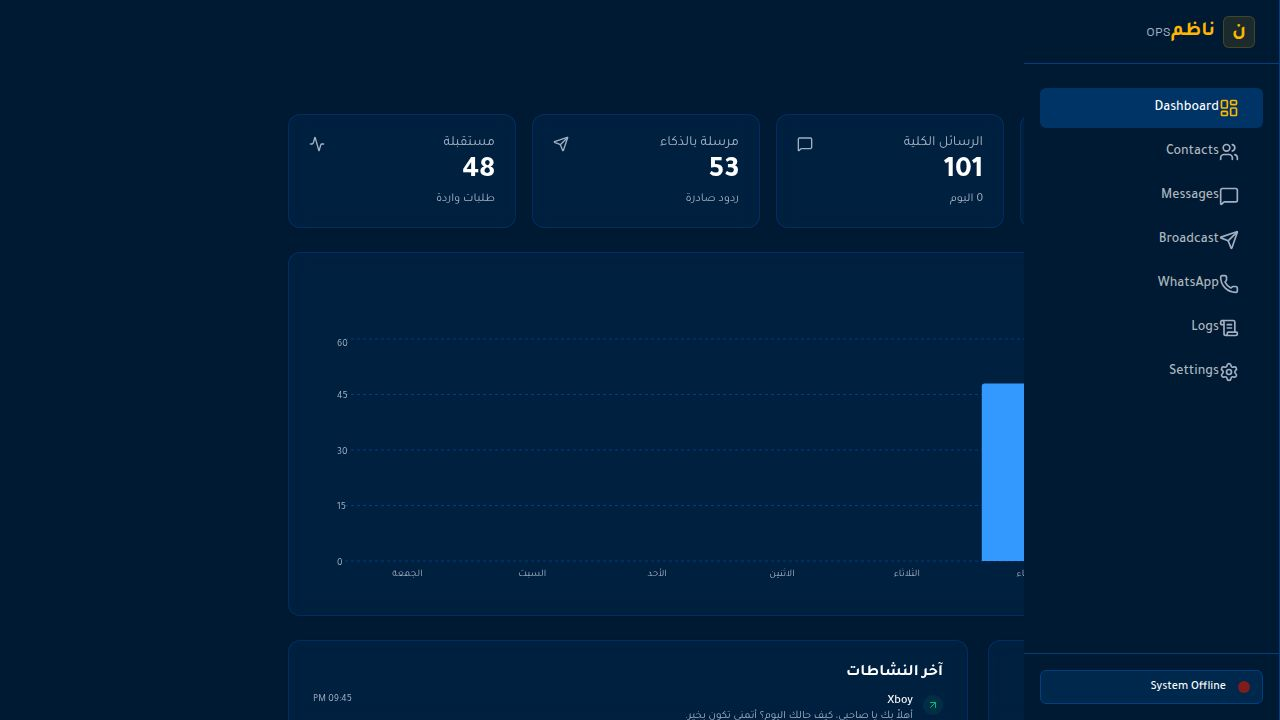
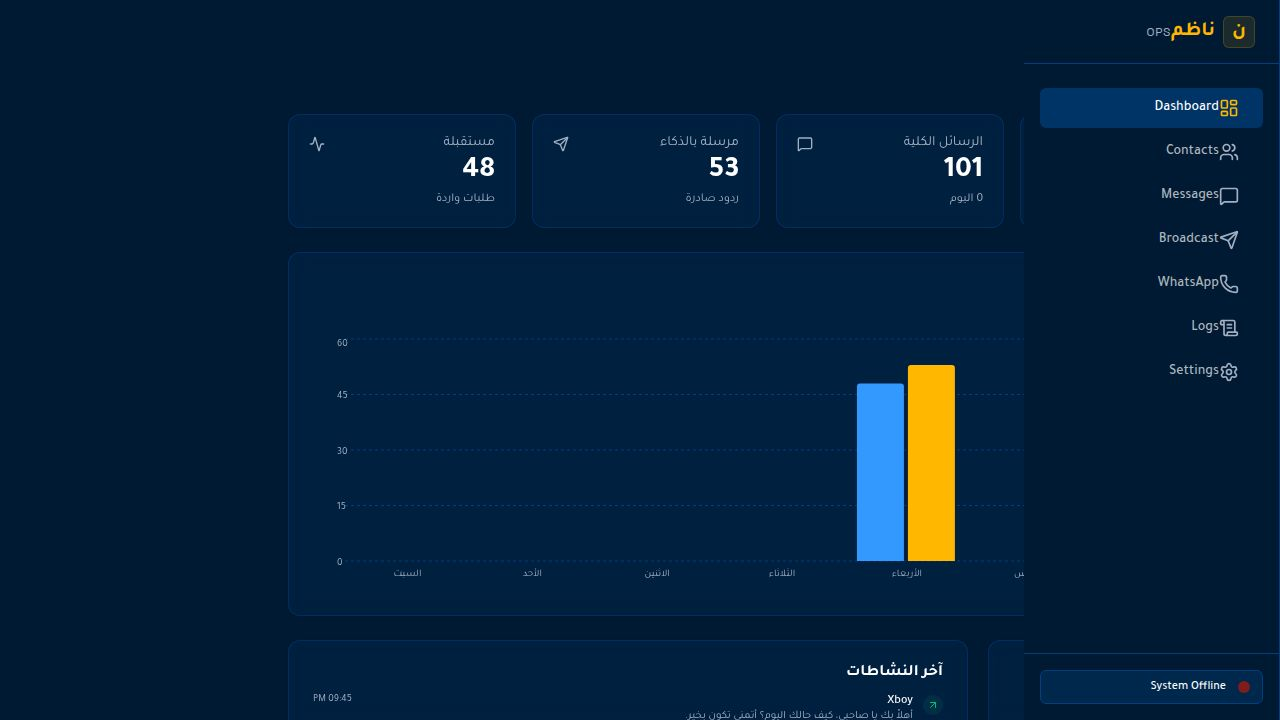
Add fallback Gemini models and display key usage statistics
Integrates new Gemini 1.5 Pro and 1.5 Flash models as fallbacks, and adds a dashboard section to monitor API key usage, including request counts, errors, and cooling statuses.

Replit-Commit-Author: Agent
Replit-Commit-Session-Id: 8fa921c9-8ec3-4ce2-b086-723d5ff7705b
Replit-Commit-Checkpoint-Type: full_checkpoint
Replit-Commit-Event-Id: fe52ef9c-4b02-409e-a6cb-9ee965234e4c
Replit-Commit-Screenshot-Url: https://storage.googleapis.com/screenshot-production-us-central1/ffe41170-9d31-4f9a-b78f-f85605ac5097/8fa921c9-8ec3-4ce2-b086-723d5ff7705b/ZPMA9gA
Replit-Helium-Checkpoint-Created: true

Changed region(s): [[0.6562, 0.4889, 0.8125, 0.825]]

diff --git a/artifacts/nour-dashboard/src/pages/settings.tsx b/artifacts/nour-dashboard/src/pages/settings.tsx
@@ -392,6 +392,15 @@ export default function Settings() {
   const geminiModel  = form.watch("geminiModel") ?? "";
   const groqModel    = form.watch("groqModel") ?? "";
 
+  // ── Key stats (live refresh every 30s) ───────────────────────────────────
+  const [keyStats, setKeyStats] = useState<Record<string, { requests: number; quotaErrors: number; lastSuccess: number | null; lastError: number | null; coolingModels: string[] }>>({});
+  useEffect(() => {
+    const fetchKeyStats = () => fetch("/api/stats/keys").then(r => r.json()).then(setKeyStats).catch(() => {});
+    fetchKeyStats();
+    const id = setInterval(fetchKeyStats, 30_000);
+    return () => clearInterval(id);
+  }, []);
+
   if (isLoading) {
     return <div className="flex justify-center p-12"><Loader2 className="h-8 w-8 animate-spin text-primary" /></div>;
   }
@@ -620,6 +629,41 @@ export default function Settings() {
                   <ModelSelector provider="gemini" apiKey={geminiApiKey} value={geminiModel} onChange={(v) => form.setValue("geminiModel", v, { shouldDirty: true })} />
                   {geminiModel && <p className="text-xs text-muted-foreground mt-1">Selected: <span className="font-mono text-foreground">{geminiModel}</span></p>}
                 </div>
+
+                {/* Key Stats */}
+                {Object.keys(keyStats).length > 0 && (
+                  <div className="space-y-2 pt-1">
+                    <p className="text-xs font-medium text-muted-foreground">حالة المفاتيح (تتحدث كل 30 ث)</p>
+                    <div className="grid grid-cols-2 gap-2">
+                      {(["gemini_1","gemini_2","gemini_3","gemini_4","gemini_5","gemini_6"] as const).map((label, i) => {
+                        const s = keyStats[label];
+                        if (!s) return null;
+                        const isCooling = s.coolingModels.length > 0;
+                        const status = isCooling ? "تبريد" : s.requests > 0 ? "يعمل" : "جاهز";
+                        const color = isCooling ? "text-orange-400" : s.requests > 0 ? "text-green-400" : "text-muted-foreground";
+                        const dot = isCooling ? "bg-orange-400 animate-pulse" : s.requests > 0 ? "bg-green-400" : "bg-zinc-500";
+                        return (
+                          <div key={label} className="rounded-md border border-border/40 bg-muted/30 p-2 space-y-1">
+                            <div className="flex items-center justify-between">
+                              <span className="text-xs font-mono text-foreground">مفتاح {i + 1}</span>
+                              <div className="flex items-center gap-1">
+                                <span className={`h-1.5 w-1.5 rounded-full ${dot}`} />
+                                <span className={`text-xs ${color}`}>{status}</span>
+                              </div>
+                            </div>
+                            <div className="flex justify-between text-xs text-muted-foreground">
+                              <span>✅ {s.requests} طلب</span>
+                              <span>⚠️ {s.quotaErrors} خطأ</span>
+                            </div>
+                            {isCooling && (
+                              <p className="text-xs text-orange-400/80 truncate">⏳ {s.coolingModels.join(", ")}</p>
+                            )}
+                          </div>
+                        );
+                      })}
+                    </div>
+                  </div>
+                )}
               </div>
 
               {/* Groq */}

diff --git a/artifacts/api-server/src/services/ai.ts b/artifacts/api-server/src/services/ai.ts
@@ -32,6 +32,34 @@ async function getSetting(key: string): Promise<string | null> {
 const failedModels = new Map<string, number>();
 const CIRCUIT_BREAKER_MS = 3 * 60 * 1000;
 
+// ── Key stats — track requests/errors per provider label ────────────────────
+interface KeyStat {
+  requests: number;
+  quotaErrors: number;
+  lastSuccess: number | null;
+  lastError: number | null;
+}
+const keyStats = new Map<string, KeyStat>();
+
+function getOrCreateKeyStat(label: string): KeyStat {
+  if (!keyStats.has(label)) keyStats.set(label, { requests: 0, quotaErrors: 0, lastSuccess: null, lastError: null });
+  return keyStats.get(label)!;
+}
+
+export function getKeyStats(): Record<string, KeyStat & { coolingModels: string[] }> {
+  const result: Record<string, KeyStat & { coolingModels: string[] }> = {};
+  for (const [label, stat] of keyStats.entries()) {
+    const coolingModels: string[] = [];
+    for (const [key, failedAt] of failedModels.entries()) {
+      if (key.startsWith(`${label}/`) && Date.now() - failedAt < CIRCUIT_BREAKER_MS) {
+        coolingModels.push(key.slice(label.length + 1));
+      }
+    }
+    result[label] = { ...stat, coolingModels };
+  }
+  return result;
+}
+
 // ── Sticky provider — remember last successful key+model, start from there ──
 let _stickyLabel: string | null = null;
 let _stickyModel: string | null = null;
@@ -39,6 +67,9 @@ let _stickyModel: string | null = null;
 function markProviderSuccess(label: string, model: string) {
   _stickyLabel = label;
   _stickyModel = model;
+  const stat = getOrCreateKeyStat(label);
+  stat.requests++;
+  stat.lastSuccess = Date.now();
 }
 
 function isModelCoolingDown(provider: string, model: string): boolean {
@@ -52,6 +83,9 @@ function isModelCoolingDown(provider: string, model: string): boolean {
 
 function markModelFailed(provider: string, model: string) {
   failedModels.set(`${provider}/${model}`, Date.now());
+  const stat = getOrCreateKeyStat(provider);
+  stat.quotaErrors++;
+  stat.lastError = Date.now();
 }
 
 // ── Per-call timeout ─────────────────────────────────────────────────────────
@@ -355,10 +389,12 @@ _${activeSlogan}_
 `.trim();
 }
 
-// Gemini model chain — 2 models only, rotate keys between them
+// Gemini model chain — ordered best first, 1.5 as last resort fallbacks
 const GEMINI_MODELS = [
   "gemini-2.5-flash",   // Flash 2.5 — الأساسي
   "gemini-2.0-flash",   // Flash 2.0 — الاحتياطي
+  "gemini-1.5-pro",     // Pro 1.5  — احتياطي أخير
+  "gemini-1.5-flash",   // Flash 1.5 — الأخف احتياطياً
 ];
 
 // Groq fallback model chain — ordered by quota size

diff --git a/artifacts/api-server/src/routes/stats.ts b/artifacts/api-server/src/routes/stats.ts
@@ -1,6 +1,7 @@
 import { Router } from "express";
 import { db, contactsTable, messagesTable } from "@workspace/db";
 import { eq, gte, count, sql } from "drizzle-orm";
+import { getKeyStats } from "../services/ai";
 
 const router = Router();
 
@@ -74,6 +75,10 @@ router.get("/activity", async (req, res) => {
     });
   }
   res.json(days);
+});
+
+router.get("/keys", (_req, res) => {
+  res.json(getKeyStats());
 });
 
 export default router;

diff --git a/artifacts/api-server/src/routes/settings.ts b/artifacts/api-server/src/routes/settings.ts
@@ -162,10 +162,12 @@ router.post("/", async (req, res) => {
 const GEMINI_NAMES: Record<string, { name: string; description: string }> = {
   "gemini-2.5-flash": { name: "Gemini 2.5 Flash", description: "الأساسي — سريع ومستقر" },
   "gemini-2.0-flash": { name: "Gemini 2.0 Flash", description: "الاحتياطي — رصيد عالٍ" },
+  "gemini-1.5-pro":   { name: "Gemini 1.5 Pro",   description: "احتياطي أخير — موثوق" },
+  "gemini-1.5-flash": { name: "Gemini 1.5 Flash",  description: "الأخف احتياطياً" },
 };
 
 // Priority order for sorting
-const GEMINI_PRIORITY = ["gemini-2.5-flash", "gemini-2.0-flash"];
+const GEMINI_PRIORITY = ["gemini-2.5-flash", "gemini-2.0-flash", "gemini-1.5-pro", "gemini-1.5-flash"];
 
 router.get("/models/gemini", async (req, res) => {
   const key = req.query.key as string;